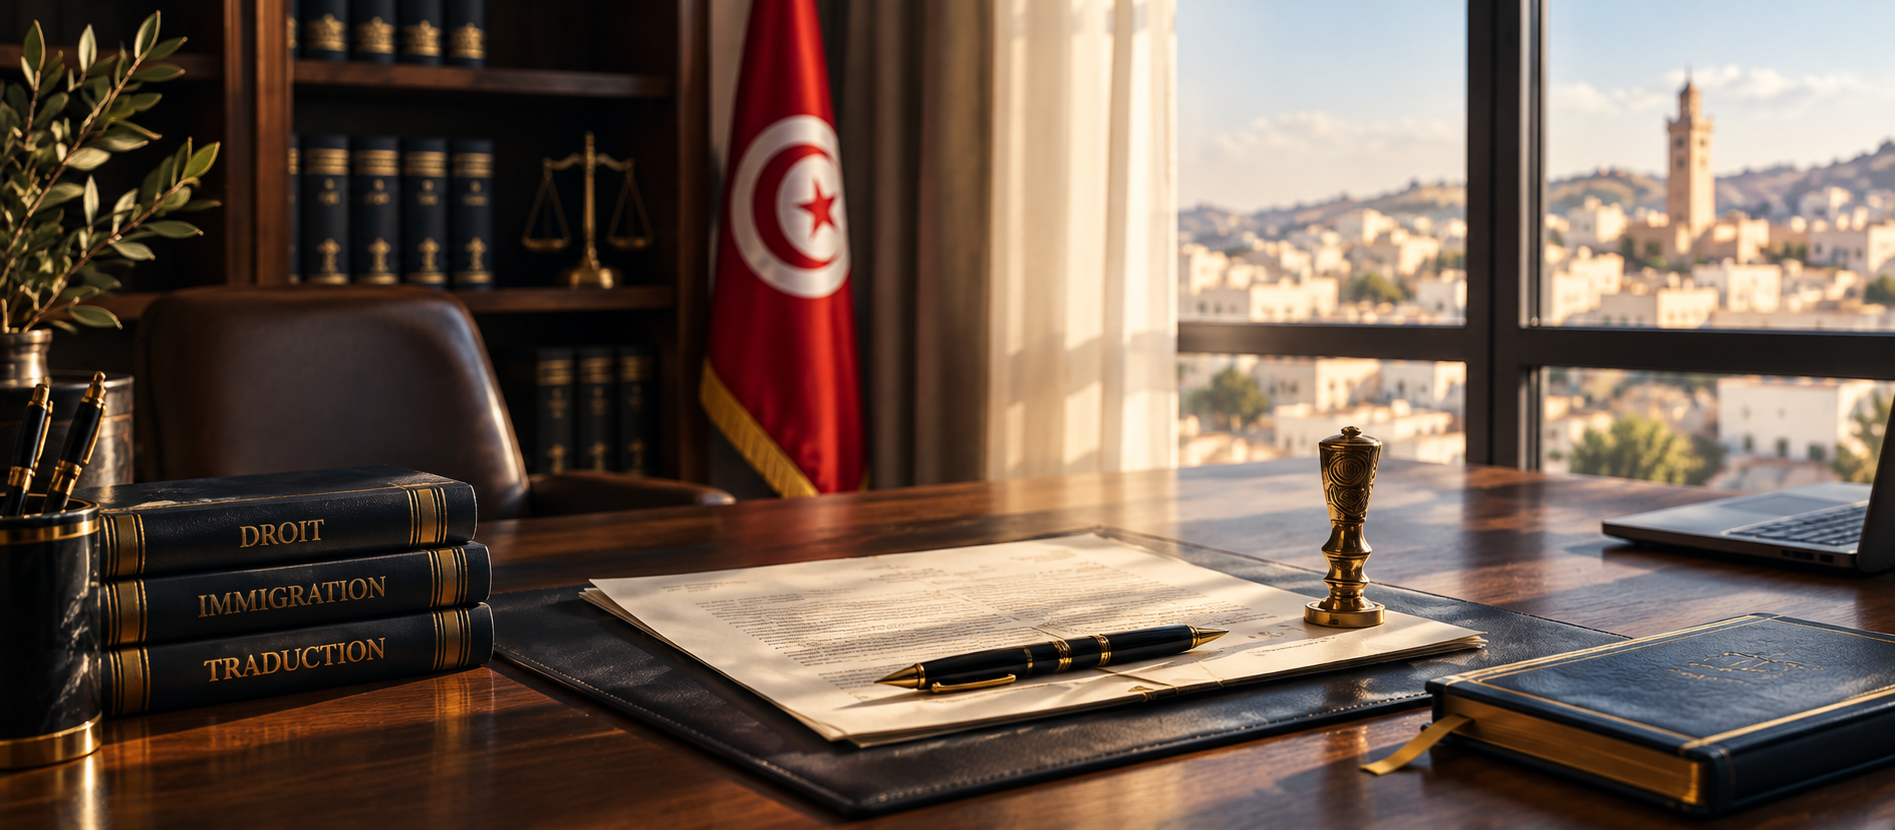
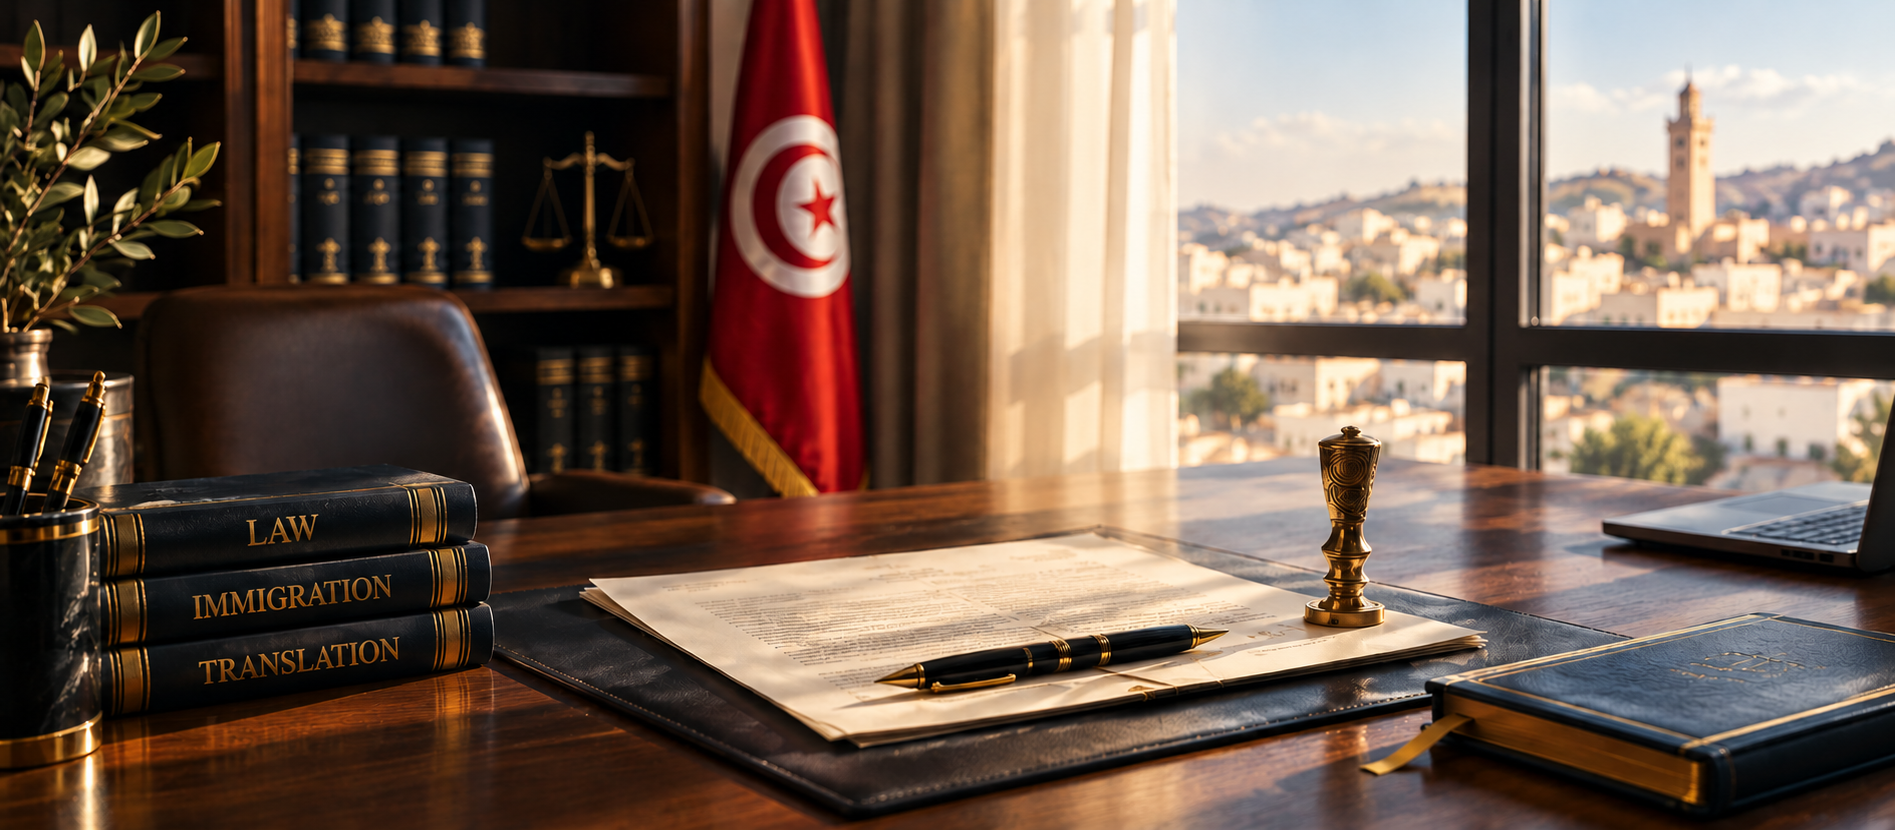
good enough UI to deliver

diff --git a/dictionaries/ar.ts b/dictionaries/ar.ts
@@ -4,7 +4,7 @@ export const ar: Dictionary = {
   meta: {
     titleSuffix: 'مترجمة محلفة عربي – إنجليزي',
     description:
-      'مترجمة محلفة معتمدة لدى وزارة العدل: ترجمة رسمية من العربية إلى الإنجليزية ومن الإنجليزية إلى العربية، وترجمة شفوية أمام المحاكم، وخدمات لغوية في بوسالم، ولاية جندوبة، تونس.',
+      'مترجمة محلفة معتمدة لدى وزارة العدل: ترجمة رسمية من العربية إلى الإنجليزي ومن الإنجليزي إلى العربية، وترجمة شفوية أمام المحاكم، وخدمات لغوية في بوسالم، ولاية جندوبة، تونس.',
   },
   common: {
     getQuote: 'احصل على تسعيرة',
@@ -37,12 +37,12 @@ export const ar: Dictionary = {
   trustStrip: [
     'معتمدة لدى وزارة العدل' /* [REVIEW]: Tunisian official phrasing for Ministry accreditation */,
     'مترجمة لدى المحاكم',
-    'عربي – إنكليزي',
+    'عربي – إنجليزي',
     'بوسالم · جندوبة',
   ],
   hero: {
     eyebrow: 'مترجمة محلفة · مترجمة لدى المحاكم',
-    titleMain: 'عربي ↔ إنكليزي',
+    titleMain: 'عربي ↔ إنجليزي',
     titleAccent: 'ترجمة محلفة',
     description:
       'ترجمة معتمدة لدى وزارة العدل للوثائق القانونية والإدارية ووثائق الهجرة.',
@@ -50,7 +50,7 @@ export const ar: Dictionary = {
     accreditedBadge: 'وزارة العدل',
     locationTitle: 'بوسالم، جندوبة،',
     locationBadge: 'تونس',
-    tags: ['عربي ↔ إنكليزي', 'سرية تامة', 'احترافية عالية'],
+    tags: ['عربي ↔ إنجليزي', 'سرية تامة', 'احترافية عالية'],
   },
   process: {
     eyebrow: 'كيف نعمل',
@@ -70,14 +70,14 @@ export const ar: Dictionary = {
       {
         num: '03',
         title: 'استلام الترجمة',
-        text: 'استلام ترجمتك المعتمدة (عربي–إنكليزي) حسب الاتفاق.',
+        text: 'استلام ترجمتك المعتمدة (عربي–إنجليزي) حسب الاتفاق.',
       },
     ],
   },
   services: {
     eyebrow: 'خدماتنا',
     heading: 'خدمات الترجمة واللغات',
-    lede: 'خدمات احترافية باللغتين العربية والإنكليزية للاحتياجات الرسمية والقانونية والمهنية.',
+    lede: 'خدمات احترافية باللغتين العربية والإنجليزية للاحتياجات الرسمية والقانونية والمهنية.',
     items: [
       {
         title: 'الترجمة القانونية والشركات',
@@ -92,12 +92,12 @@ export const ar: Dictionary = {
         text: 'المساعدة في إجراءات الأبوستيل (Apostille) والتصديق مع معالجة الطلبات العاجلة.' /* [REVIEW]: "الأبوستيل" is standard for official international Apostille certification in North Africa */,
       },
       {
-        title: 'الترجمة الشفهية لدى المحاكم',
-        text: 'ترجمة شفهية (عربي–إنكليزي) للمحاكم، الجلسات القانونية، والاجتماعات الرسمية.',
+        title: 'الترجمة الفورية لدى المحاكم',
+        text: 'ترجمة فورية (عربي–إنجليزي) للمحاكم، الجلسات القانونية، والاجتماعات الرسمية.',
       },
     ],
     training: {
-      title: 'تدريب وتكوين في اللغة الإنكليزية',
+      title: 'تدريب وتكوين في اللغة الإنجليزي',
       description:
         'دورات تطبيقية للطلبة والمهنيين تشمل التحضير الامتحانات، مقابلات العمل، والتواصل المهني.',
       badge: 'دروس فردية · مجموعات · تكوين مهني',
@@ -113,11 +113,11 @@ export const ar: Dictionary = {
       },
       {
         title: 'خبرة ميدانية',
-        text: 'خبرة واسعة في الترجمة الشفهية للمحاكم والوثائق القانونية.',
+        text: 'خبرة واسعة في الترجمة الفورية للمحاكم والوثائق القانونية.',
       },
       {
         title: 'دقة عالية',
-        text: 'ترجمة دقيقة تراعي المصطلحات القانونية عربي–إنكليزي.',
+        text: 'ترجمة دقيقة تراعي المصطلحات القانونية عربي–إنجليزي.',
       },
       {
         title: 'سرية تامة',
@@ -128,20 +128,20 @@ export const ar: Dictionary = {
   about: {
     eyebrow: 'حول المترجمة',
     name: 'منية المحمدي',
-    subtitle: 'مترجمة محلفة · مترجمة لدى المحاكم · مدربة لغة إنكليزية',
+    subtitle: 'مترجمة محلفة · مترجمة لدى المحاكم · مدربة لغة إنجليزي',
     description:
-      'معتمدة لدى وزارة العدل وحاصلة على شهادة الماجستير في اللغة الإنكليزية، مع سنوات من الخبرة المهنية في خدمة الأفراد والعائلات والمؤسسات.',
+      'معتمدة لدى وزارة العدل وحاصلة على شهادة الماجستير في اللغة الإنجليزية، مع سنوات من الخبرة المهنية في خدمة الأفراد والعائلات والمؤسسات.',
     credentials: [
       'معتمدة لدى وزارة العدل',
-      'شهادة الماجستير في اللغة الإنكليزية',
-      'مترجمة شفهية لدى المحكمة الابتدائية بجندوبة' /* [REVIEW]: Matches "Court of First Instance of Jendouba" */,
+      'شهادة الماجستير في اللغة الإنجليزية',
+      'مترجمة فورية لدى المحكمة الابتدائية بجندوبة' /* [REVIEW]: Matches "Court of First Instance of Jendouba" */,
     ],
   },
   confidentiality: {
     eyebrow: 'السرية والأمان',
     heading: 'وثائقكم في أيدٍ أمينة.',
     text: 'تتطلب الوثائق القانونية والخاصة بالهجرة أعلى درجات السرية والتكتم. نحن نتعامل مع كل وثيقة بأعلى مستويات المهنية والأمان.',
-    footer: 'سرية مهنية مطلقة · حفظ وآمن للوثائق',
+    footer: 'سرية مهنية مطلقة · حفظ وأمان للوثائق',
   },
   faq: {
     eyebrow: 'الأسئلة الشائعة',
@@ -182,19 +182,19 @@ export const ar: Dictionary = {
   finalCta: {
     eyebrow: 'هل أنت جاهز للبدء؟',
     headingMain: 'هل تحتاج إلى ترجمة محلفة',
-    headingAccent: 'عربي – إنكليزي؟',
+    headingAccent: 'عربي – إنجليزي؟',
     text: 'أرسل وثائقك الآن واحصل على تسعيرة مباشرة.',
   },
   footer: {
-    tagline: 'مترجمة محلفة · مترجمة لدى المحاكم\nعربي – إنكليزي',
+    tagline: 'مترجمة محلفة · مترجمة لدى المحاكم\nعربي – إنجليزي',
     contactEyebrow: 'الاتصال',
     location: 'بوسالم، جندوبة، تونس',
     phone: '+216 93 012 617',
     email: 'monia.legaltranslator@gmail.com',
     socials: {
-      facebook: 'فيسبوك',
-      instagram: 'إنستغرام',
-      linkedin: 'لينكد إن',
+      facebook: 'Facebook',
+      instagram: 'Instagram',
+      linkedin: 'LinkedIn',
     },
     mapCard: {
       city: 'بوسالم',

diff --git a/components/site/hero.tsx b/components/site/hero.tsx
@@ -12,22 +12,28 @@ export function Hero({
   t,
   common,
   imageLabel,
+  imageSrc,
 }: {
   t: Dictionary['hero'];
   common: Dictionary['common'];
   imageLabel: string;
+  imageSrc: string;
 }) {
   return (
     <section className="relative overflow-hidden bg-navy text-white">
       <Container className="relative z-10">
         <div className="pt-13 pb-10 md:min-h-121 md:max-w-2xl md:pt-17 md:pb-16">
           <Eyebrow>{t.eyebrow}</Eyebrow>
-          <Heading as="h1" size="hero">
+          <Heading
+            as="h1"
+            size="hero"
+            className="rtl:text-4xl rtl:leading-[1.2] lg:rtl:text-6xl"
+          >
             {t.titleMain}
             <br />
             <Accent>{t.titleAccent}</Accent>
           </Heading>
-          <p className="mt-5 mb-4 max-w-120 font-serif text-xl leading-snug font-medium rtl:font-arabic rtl:leading-relaxed">
+          <p className="mt-5 mb-4 max-w-120 font-serif text-xl leading-snug font-medium rtl:font-arabic rtl:text-lg rtl:leading-relaxed">
             {t.description}
           </p>
           <div className="my-6 flex gap-6 font-serif text-lg leading-snug rtl:font-arabic rtl:leading-relaxed">
@@ -79,13 +85,13 @@ export function Hero({
         aria-label={imageLabel}
       >
         <Image
-          src="/hero1.png"
+          src={imageSrc}
           alt=""
           fill
           priority
           quality={90}
-          sizes="100vw"
-          className="object-cover"
+          sizes="90vw"
+          className="object-cover rtl:object-left"
         />
         <div className="absolute inset-x-0 top-0 h-12 bg-linear-to-b from-navy to-transparent md:hidden" />
         <div className="absolute inset-0 hidden bg-linear-to-r from-navy via-navy/80 to-navy/10 md:block rtl:bg-linear-to-l" />

diff --git a/components/site/about.tsx b/components/site/about.tsx
@@ -46,7 +46,7 @@ export function About({
             ))}
           </ul>
 
-          <a
+          {/*<a
             className="inline-flex items-center gap-2 text-base text-yellow-700 hover:text-gold rtl:text-lg"
             href={WHATSAPP_URL}
             target="_blank"
@@ -54,7 +54,7 @@ export function About({
           >
             {common.viewCredentials}{' '}
             <ArrowRight size={16} className="rtl:rotate-180" />
-          </a>
+          </a>*/}
         </div>
       </Container>
     </Section>

diff --git a/app/[lang]/page.tsx b/app/[lang]/page.tsx
@@ -44,6 +44,7 @@ export default async function Page({
         t={dict.hero}
         common={dict.common}
         imageLabel={dict.a11y.heroImage}
+        imageSrc={lang === 'ar' ? '/hero1-ar.png' : '/hero1.png'}
       />
       <TrustStrip items={dict.trustStrip} />
       <Process t={dict.process} />
